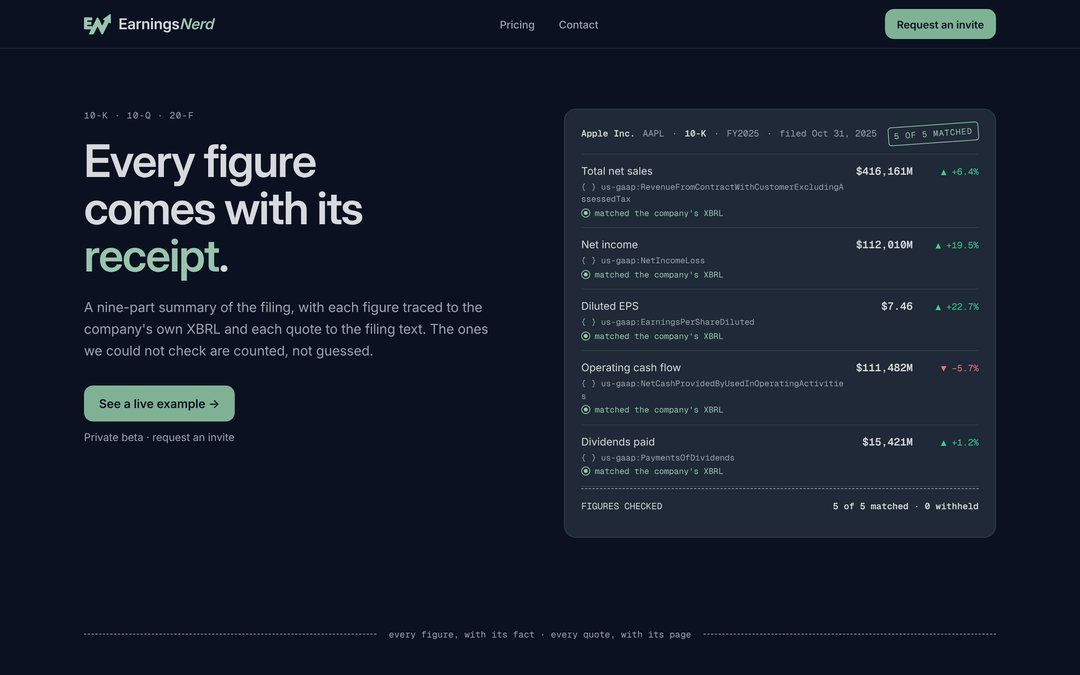
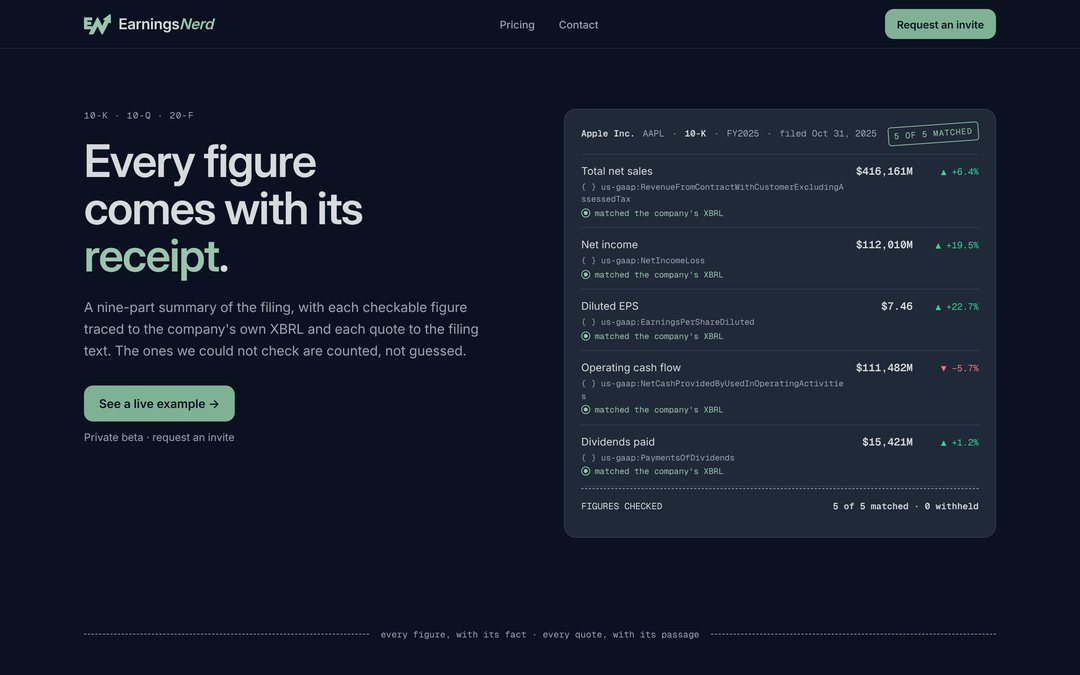
docs(brand): apply the records lens, mark the June roadmap superseded, point todo at the pause
- Mockups and strategy say "passage" not "page" and "each checkable figure"
  where the product itself counts checkable figures; the margin marks in
  direction B are positioned by measuring their inline markers.
- Battlefield counts recomputed from the seven captures; the two sites
  that did not render on the first visit are described neutrally.
- Citation nits (email_service.py:184, layout.tsx:55, SummaryBlocks.tsx:122,
  copilot/FilingWorkspace.tsx) and the FY2024 dividends figure recorded.
- docs/competitive-strategy-roadmap-2026.md: a superseded note on its
  dark-first, mint-accent identity lines (AGENTS.md §2, fix the losing
  document in the same PR).
- tasks/todo.md: one Founder line for the pending direction choice and
  the eight interview questions.

Claude-Session: https://claude.ai/code/session_01YJKqourPFYkH1PR5wGRaef

Changed region(s): [[0.0611, 0.4356, 0.4583, 0.5289], [0.3361, 0.9333, 0.6417, 0.9644]]

diff --git a/docs/brand/directions/direction-b.html b/docs/brand/directions/direction-b.html
@@ -26,17 +26,17 @@
   <div>
     <p class="eyebrow">AI summaries of 10-Ks and 10-Qs</p>
     <h1 class="display">The summary that <span class="mark-hl">shows its work</span>.</h1>
-    <p class="sub">EarningsNerd reads the 10-K and writes it up in nine parts. Every figure points to the XBRL fact or the passage it came from, so checking takes a click, not an afternoon.</p>
+    <p class="sub">EarningsNerd reads the 10-K and writes it up in nine parts. Each figure points to the XBRL fact or the passage it came from, or says that it could not, so checking takes a click, not an afternoon.</p>
     <div class="cta"><a class="btn lg" href="#">See a live example →</a><span class="access">Private beta · request an invite</span></div>
   </div>
   <section class="panel copy" aria-label="Marked copy">
-    <div class="margin"><span class="m" style="top:66px">[F1]</span><span class="m" style="top:90px">[F2]</span><span class="m" style="top:114px">[F3]</span><span class="m" style="top:176px">[1]</span></div>
+    <div class="margin" id="margin"></div>
     <div class="body">
       <p class="ident" style="margin-bottom:14px"><b>Apple Inc.</b><span>AAPL</span><span>·</span><b>10-K</b><span>·</span><span>fiscal year ended Sep 27, 2025</span><span>·</span><span>filed Oct 31, 2025</span></p>
       <div class="sect"><span class="idx">01</span><h2>The Print</h2></div>
       <p class="para">Total net sales rose 6.4% to $416.2B<span class="ref">[F1]</span> and net income 19.5% to $112.0B<span class="ref">[F2]</span>, while operating cash flow declined to $111.5B from $118.3B<span class="ref">[F3]</span>.</p>
       <blockquote class="span">“Tariffs and other measures that are applied to the Company’s products or their components can have a material adverse impact on the Company’s business, results of operations and …”</blockquote>
-      <div class="span-meta"><span class="chip sel">❞ Located in the filing</span><span class="tally">the filing's own words · <span class="bracket">[1]</span></span></div>
+      <div class="span-meta"><span class="chip sel">❞ Located in the filing</span><span class="tally">the filing's own words · <span class="bracket" data-ref="[1]">[1]</span></span></div>
       <div class="catch">
         <div><div class="k">From memory</div><div class="v old">$391.0B</div></div>
         <div><div class="k">In the filing</div><div class="v">$416.2B <span class="ref">[F1]</span></div></div>
@@ -46,4 +46,14 @@
     <p class="foot tally">3 of 3 figures matched the company's XBRL · 1 of 1 excerpt located in the filing text · 0 withheld</p>
   </section>
 </main>
+<script>
+// The margin device: each inline marker gets a twin in the gutter on the line it sits on.
+(function(){
+  const margin=document.getElementById("margin"); const panel=margin.parentElement; const top=panel.getBoundingClientRect().top;
+  document.querySelectorAll(".body .ref, .body [data-ref]").forEach((el)=>{
+    const r=el.getBoundingClientRect(); const m=document.createElement("span"); m.className="m";
+    m.textContent=el.dataset.ref||el.textContent.trim(); m.style.top=(r.top-top+(r.height-14)/2)+"px"; margin.appendChild(m);
+  });
+})();
+</script>
 </body></html>

diff --git a/docs/brand/directions/direction-a.html b/docs/brand/directions/direction-a.html
@@ -25,7 +25,7 @@
   <div>
     <p class="eyebrow">10-K · 10-Q · 20-F</p>
     <h1 class="display">Every figure comes with its <span class="brand">receipt</span>.</h1>
-    <p class="sub">A nine-part summary of the filing, with each figure traced to the company's own XBRL and each quote to the filing text. The ones we could not check are counted, not guessed.</p>
+    <p class="sub">A nine-part summary of the filing, with each checkable figure traced to the company's own XBRL and each quote to the filing text. The ones we could not check are counted, not guessed.</p>
     <div class="cta"><a class="btn lg" href="#">See a live example →</a><span class="access">Private beta · request an invite</span></div>
   </div>
   <div class="receipt-wrap">
@@ -43,5 +43,5 @@
     </section>
   </div>
 </main>
-<footer class="strip"><p class="rule">every figure, with its fact · every quote, with its page</p></footer>
+<footer class="strip"><p class="rule">every figure, with its fact · every quote, with its passage</p></footer>
 </body></html>

diff --git a/docs/brand/directions/direction-c.html b/docs/brand/directions/direction-c.html
@@ -21,7 +21,7 @@
   <div>
     <p class="eyebrow">AI summaries of 10-Ks and 10-Qs</p>
     <h1 class="display">Somebody has to read the <span class="nerd">footnotes</span>.</h1>
-    <p class="sub">The Nerd reads the 10-K so you can check it faster, not skip it. Nine numbered notes per filing, each one pointing at its page.</p>
+    <p class="sub">The Nerd reads the 10-K so you can check it faster, not skip it. Numbered notes per filing, each one pointing at its passage.</p>
     <div class="cta"><a class="btn lg" href="#">See a live example →</a><span class="access">Private beta · request an invite</span></div>
   </div>
   <section class="panel note" aria-label="Notebook page">

diff --git a/docs/brand/00-audit.md b/docs/brand/00-audit.md
@@ -18,20 +18,20 @@ Scores and judgements here are the studio's. File paths are the evidence; code i
 | 2 | Homepage, dark, 1440 | same | [fold](audit/home-dark-1440-fold.jpg) | Navy `#0B1120`, light sage `#7FB295` accents, the same composition. Reads as the light page inverted; nothing is specific to the dark face. |
 | 3 | Homepage, 390 | same | [light fold](audit/home-light-390-fold.jpg) · [dark fold](audit/home-dark-390-fold.jpg) · [light, first 4,200px](audit/home-light-390-full.jpg) | Headline at 36px, four lines. The cookie bar covers the second row of company chips on the first visit. The full page is 12,811px, about fifteen phone screens. |
 | 4 | Pricing `/pricing` | `frontend/app/pricing/page.tsx`, `prices.ts`; `frontend/lib/planLimits.ts` | [capture](audit/pricing-light-1440.jpg) | Secondary header "Pricing · Choose the plan that fits your workflow". Lead "Choose the plan that works for you. Upgrade or downgrade at any time." Yearly toggle on by default: "$32.50 /month · Billed annually". Free: "For trying out EarningsNerd", "Basic AI summaries", CTA "Create free account". Pro: "For professionals who need unlimited access", "Most popular". FAQ in generic SaaS form. |
-| 5 | Example filing `/filing/3` | `frontend/app/filing/[id]/page.tsx`, `page-client.tsx`, `StreamingSummaryDisplay.tsx`; `frontend/features/filings/components/FilingIdentity.tsx`, `SourceTrace.tsx`, `FilingWorkspace.tsx`; `frontend/features/summaries/components/SummaryRisks.tsx`, `FinancialMetricsTable.tsx`; section titles in `backend/app/services/summary_schema.py:71-79` | [light](audit/filing-3-light-1440-fold.jpg) · [dark](audit/filing-3-dark-1440-fold.jpg) · [390](audit/filing-3-light-390-fold.jpg) | The identity strip: "Apple Inc. AAPL · 10-K · fiscal year ended Sep 27, 2025 · filed Oct 31, 2025 · Original on SEC EDGAR", then the tally "3 of 5 checkable figures matched the company's XBRL · 4 of 4 risk excerpts located in the filing text". A numbered contents rail (01 The Print, 02 Results That Matter, 03 What changed, 04 Earnings Quality & Cash Conversion, 05 Value Drivers & Capital Allocation, 06 Forward Signals, 07 Risks, 08 Balance Sheet & Liquidity, 09 Notable Footnotes). A metrics table whose rows carry `{ } Revenue · SEC XBRL` chips and "Verified in filing". A floating "Source ⌘K" launcher. This page has more character than the page that sells it. |
+| 5 | Example filing `/filing/3` | `frontend/app/filing/[id]/page.tsx`, `page-client.tsx`, `StreamingSummaryDisplay.tsx`; `frontend/features/filings/components/FilingIdentity.tsx`, `SourceTrace.tsx`, `copilot/FilingWorkspace.tsx`; `frontend/features/summaries/components/SummaryRisks.tsx`, `FinancialMetricsTable.tsx`, `SummaryBlocks.tsx` ("What changed", `:122`); the other section titles in `backend/app/services/summary_schema.py:71-79` | [light](audit/filing-3-light-1440-fold.jpg) · [dark](audit/filing-3-dark-1440-fold.jpg) · [390](audit/filing-3-light-390-fold.jpg) | The identity strip: "Apple Inc. AAPL · 10-K · fiscal year ended Sep 27, 2025 · filed Oct 31, 2025 · Original on SEC EDGAR", then the tally "3 of 5 checkable figures matched the company's XBRL · 4 of 4 risk excerpts located in the filing text". A numbered contents rail (01 The Print, 02 Results That Matter, 03 What changed, 04 Earnings Quality & Cash Conversion, 05 Value Drivers & Capital Allocation, 06 Forward Signals, 07 Risks, 08 Balance Sheet & Liquidity, 09 Notable Footnotes). A metrics table whose rows carry `{ } Revenue · SEC XBRL` chips and "Verified in filing". A floating "Source ⌘K" launcher. This page has more character than the page that sells it. |
 | 6 | Company `/company/AAPL` | `frontend/app/company/[ticker]/page-client.tsx`; `frontend/features/companies/components/CompanyIdentity.tsx`; `frontend/features/filings/components/FilingIndex.tsx`, `ComparePeriodsCard.tsx` | [capture](audit/company-aapl-light-1440.jpg) | "Apple Inc. AAPL", then "$336.64 −1.11% · CIK 0000320193 · Company on SEC EDGAR" and "Latest filing 10-Q · quarter ended Jun 27, 2026 · filed Jul 31, 2026 · summary ready". One primary action "Open latest summary". A filings index grouped by year. A "Compare periods" card (▲ +6.4% Favorable). |
 | 7 | 404 | `frontend/app/not-found.tsx` | [light](audit/404-light-1440.jpg) · [dark](audit/404-dark-1440.jpg) | A centred card: magnifier glyph, "Page not found", "We couldn't find this page. The link may be mistyped or out of date. Search for a company from the homepage, or open your dashboard.", two buttons. Correct, anonymous. |
 | 8 | Auth shell `/login`, `/register` | `frontend/features/auth/components/AuthShell.tsx`; `frontend/app/login/page.tsx`, `register/page.tsx` | [light](audit/login-light-1440.jpg) · [dark](audit/login-dark-1440.jpg) | Left: "Welcome back · Sign in to continue to EarningsNerd." Right, on a pale sage pane: "Explore SEC filings with cited summaries." and "Business overview, financials, risks, and outlook, with source links and warnings for review.", then a glass card "Example · AAPL · FY2023 · 10-K" with three grey placeholder bars where text would be and "Revenue $383.3B" beside a loss chip "−2.8% YoY"; trust icons "SEC EDGAR", "Filing-sourced figures". |
 | 9 | Waitlist `/waitlist` | `frontend/app/waitlist/page.tsx`; `frontend/features/waitlist/components/WaitlistForm.tsx`, `WaitlistCounter.tsx`, `WaitlistExample.tsx`, `WaitlistStatus.tsx` | [capture](audit/waitlist-light-1440.jpg) | A second homepage in a second voice: "Read a 10-K in 5 minutes, not 5 hours.", "Built for investors who want the signal without the slog.", a counter chip reading "Join 0+ others on the waitlist", three problem cards ("Speed matters. Markets move fast. You need clarity before the next earnings call."), a four-step "How it works" ending in "Act with clarity … move faster", a feature grid, and a "Built for trust and transparency" band with "Security-first approach". The share text still says "AI-powered SEC filing summaries for retail investors" (`WaitlistForm.tsx:23-24`). Reachable today although `WAITLIST_MODE` is off. |
-| 10 | Social card (OG) | `frontend/scripts/brand/og-template.html` → `frontend/public/og-image.png`; `?v=3` at `frontend/app/layout.tsx:54,66` and `frontend/app/page.tsx:44,55` | [capture](audit/og-image-v3.jpg) | Lockup, then "Explore SEC filings with source context." in Inter 700 at 88px, and "AI summaries · 10-K & 10-Q · Sourced from SEC EDGAR" in the retired grey `#6B7280`. No figure, no device, no promise. |
+| 10 | Social card (OG) | `frontend/scripts/brand/og-template.html` → `frontend/public/og-image.png`; `?v=3` at `frontend/app/layout.tsx:55,66` and `frontend/app/page.tsx:44,55` | [capture](audit/og-image-v3.jpg) | Lockup, then "Explore SEC filings with source context." in Inter 700 at 88px, and "AI summaries · 10-K & 10-Q · Sourced from SEC EDGAR" in the retired grey `#6B7280`. No figure, no device, no promise. |
 | 11 | Favicon, app icon, PWA icons | `frontend/public/assets/earningsnerd-appicon.svg`, `favicon.ico` (16/32/48), `apple-touch-icon.png`, `icons/icon-{192,512}.png` (+ maskable), `frontend/app/manifest.ts`, `frontend/scripts/generate-brand-assets.mjs` | [icon board](audit/icon-board.png) | The sage squircle with the cream EN. At 16px the E and the rising N fuse into one blob; at 24px the N reads and the arrowhead does not; the bare mark is legible from 32px. The board's lower rows show the bare mark on cream, navy and in one-colour black. |
 | 12 | Marks and lockups | `frontend/public/assets/earningsnerd-logo-{light,dark}.svg`, `earningsnerd-icon-{light,dark}.svg`, `earningsnerd-mark-{sage,navy,white,mono}.svg`; `frontend/components/EarningsNerdLogo.tsx`, `EarningsNerdLogoIcon.tsx`; `frontend/public/assets/LOGO_README.md` | see 1, 10, 11 | E + N with the N's last stroke rising into an arrow; the wordmark "Earnings" in the surface's ink and italic "Nerd" in sage. The SVG wordmark is Inter 700 at −0.8 tracking; the app wordmark is the heading face at 600. No clear-space or minimum-size rule exists yet. |
 | 13 | Header | `frontend/components/Header.tsx` | see 1 | Mark + wordmark, "Multi-period analysis · Calendar · Pricing · Contact", theme toggle, "Log in", primary "Request an invite →" (from `ACCESS_COPY.invite`). |
 | 14 | Footer | `frontend/components/Footer.tsx` | see 1 (full page) | Icon-only mark, tagline "Explore SEC filings with AI-assisted summaries.", three link columns, "Data sourced from SEC EDGAR. AI-generated content, for informational purposes only. Not investment advice. Not affiliated with the SEC.", a Logo.dev credit. |
-| 15 | Email subjects and shell | `backend/app/services/email_service.py` | none (code) | Subjects: "You're on the EarningsNerd waitlist! 🎉" (`:151`), "You just moved up the EarningsNerd waitlist!" (`:170`), "Verify your EarningsNerd email" (`:197`), "Your EarningsNerd beta invite" (`:226`), "Reset your EarningsNerd password" (`:253`), "A {provider} sign-in was linked to your EarningsNerd account" (`:282`), "Someone tried to sign up with your EarningsNerd email" (`:312`), "{TICKER} reports earnings today" / "{n} companies you follow report earnings today" (`:578-580`), "{count} new filing(s) from your watchlist" (`:648`). The shell (`_wrap_html`, `:20-47`) is a cream table, a panel card, a text-only "Earnings*Nerd*" wordmark and a `#6B7280` footer. The verification body says "unlock AI-powered SEC filing summaries" (`:199`); "unlock" is on the voice guide's blacklist. |
+| 15 | Email subjects and shell | `backend/app/services/email_service.py` | none (code) | Subjects: "You're on the EarningsNerd waitlist! 🎉" (`:151`), "You just moved up the EarningsNerd waitlist!" (`:170`), "Verify your EarningsNerd email" (`:197`), "Your EarningsNerd beta invite" (`:226`), "Reset your EarningsNerd password" (`:253`), "A {provider} sign-in was linked to your EarningsNerd account" (`:282`), "Someone tried to sign up with your EarningsNerd email" (`:312`), "{TICKER} reports earnings today" / "{n} companies you follow report earnings today" (`:578-580`), "{count} new filing(s) from your watchlist" (`:648`). The shell (`_wrap_html`, `:20-47`) is a cream table, a panel card, a text-only "Earnings*Nerd*" wordmark and a `#6B7280` footer. The verification body says "unlock AI-powered SEC filing summaries" (`:184`); "unlock" is on the voice guide's blacklist. |
 | 16 | Loading quips | `frontend/app/filing/[id]/StreamingSummaryDisplay.tsx:36-43`, attribution `:301` | none (code) | "Scanning 400 pages of footnotes so you don't have to…", "Cross-referencing the numbers with the narrative…", "Translating corporate-speak into plain English…", "Reading the size-8 fine print…", "Reviewing the obscure 'Other' section…", "Decoding the tone of the outlook…", signed "EarningsNerd analyst"; the stalled line "Taking longer than usual. This looks like a complex filing; still working on it." The only place on the site where a person seems to be at work. |
 | 17 | Exports (PDF, CSV, Excel) | `backend/app/services/pdf_branding.py` (masthead: inline mark, wordmark, document kind; `PALETTE` keeps `ink_tertiary #6B7280`), `export_service.py:40,117` ("Generated by EarningsNerd — AI-Powered SEC Filing Analysis", with an em-dash and the title-case the voice guide retired), `excel_export_service.py:48` (embeds `backend/app/assets/brand/earningsnerd-mark.png`) | none (code) | The package the product ships in. Chrome is on-token; the masthead sentence is pre-voice-pass. |
-| 18 | The product's own vocabulary | `backend/app/services/summary_schema.py:71-79`; `FilingIdentity.tsx` (tally); `SourceTrace.tsx` ("Verified in filing", "Cited", "Verified against the original SEC filing", "Cited. Open the section to confirm."); `HeroExample.tsx` ("Located in the filing"); `SummaryRisks.tsx` ("N of M excerpts located in the filing text · N withheld because the evidence could not be matched"); `FilingWorkspace.tsx` (the "Source" pane, tabs Filing · Ask) | see 5 | "The Print", "Results That Matter", "What changed", "Forward Signals", "Notable Footnotes"; "withheld"; "located"; "checkable". This is the real brand voice, and it appears on no sales surface. |
+| 18 | The product's own vocabulary | `backend/app/services/summary_schema.py:71-79`; `FilingIdentity.tsx` (tally); `SourceTrace.tsx` ("Verified in filing", "Cited", "Verified against the original SEC filing", "Cited. Open the section to confirm."); `HeroExample.tsx` ("Located in the filing"); `SummaryRisks.tsx` ("N of M excerpts located in the filing text · N withheld because the evidence could not be matched"); `copilot/FilingWorkspace.tsx` (the "Source" pane, tabs Filing · Ask) | see 5 | "The Print", "Results That Matter", "What changed", "Forward Signals", "Notable Footnotes"; "withheld"; "located"; "checkable". This is the real brand voice, and it appears on no sales surface. |
 | 19 | State microcopy | `frontend/features/summaries/components/GenerateSignupGate.tsx:45`; `StreamingSummaryDisplay.tsx:389,406,409`; `frontend/features/subscriptions/components/UpgradeModal.tsx:30-35`; `frontend/features/dashboard/components/YourCompanies.tsx:103`; `frontend/app/dashboard/watchlist/page.tsx:143`; `frontend/app/company/[ticker]/page-client.tsx:251,278` | none (code) | "Create a free account to analyze this filing"; "You've hit this month's free limit"; "Generation interrupted" / "Generation timed out. Please retry to continue."; "Upgrade to Pro" / "Pro includes unlimited summaries, hourly filing alerts, 8-K alerts, Multi-Period Analysis, and exports."; "No companies yet"; "No watchlist companies yet"; "Invalid ticker"; "Company not found". Truthful, and interchangeable with any SaaS. |
 | 20 | Cookie consent | `frontend/components/CookieConsent.tsx` | see 1, 4, 5 | "We value your privacy · We use cookies to enhance your experience and analyze site usage. You can choose which cookies to accept." The same opening line as Koyfin's and BamSEC's bars, captured the same morning (see [02-battlefield.md](02-battlefield.md)). |
 
@@ -95,18 +95,18 @@ a stranger sees first.
   2026-10-11 (accession 0000320193-25-000079; CIK 320193): `RevenueFromContractWithCustomerExcludingAssessedTax`
   FY2025 416,161,000,000 vs FY2024 391,035,000,000; `NetIncomeLoss` 112,010,000,000 vs
   93,736,000,000; `EarningsPerShareDiluted` 7.46 vs 6.08; `NetCashProvidedByUsedInOperatingActivities`
-  111,482,000,000 vs 118,254,000,000; `PaymentsOfDividends` 15,421,000,000. These are the only sample
+  111,482,000,000 vs 118,254,000,000; `PaymentsOfDividends` 15,421,000,000 vs 15,234,000,000. These are the only sample
   figures the brand work may draw, until a refreshed snapshot is captured through the product.
 - Prices are `PRICE_VARIANTS.control` $39 / $390 (`frontend/app/pricing/prices.ts`), with a $29 arm
-  behind the `pricing-experiment` flag. The brief's "$20 a month or $200 a year" is not in the code
-  and is therefore not a brand fact; it is a founder question ([01-interview.md](01-interview.md)).
+  behind the `pricing-experiment` flag. The studio brief names a different figure; it is not in the
+  code and is therefore not a brand fact; it is a founder question ([01-interview.md](01-interview.md)).
 - Access is invite-only (`ACCESS_COPY.invite`); Free is 5 summaries a month, 3 Ask questions, 3
   earnings-day alerts, 90-day history (`frontend/lib/planLimits.ts`, mirrored from
   `backend/app/services/entitlements.py`).
 - The summary schema's nine section titles are those at `backend/app/services/summary_schema.py:71-79`;
-  "Segments" (`:77`) is in the schema but not in the live Apple page's rail, which shows nine
-  sections without it, so the sales page must take its list from the schema with the renderer's
-  rule, not from a screenshot.
+  "Segments" (`:77`) is in the schema but not in the live Apple page's rail, and "What changed" is
+  added by the renderer (`SummaryBlocks.tsx:122`), so the rail varies by filing and the sales page
+  must take its list from the schema with the renderer's rule, not from a screenshot.
 - The hero headline is a PostHog experiment (`landing-headline-experiment`, variants A, B, C); A is
   in the HTML. Brand copy changes to the headline replace or extend the variants; they do not
   bypass the experiment.

diff --git a/docs/brand/02-battlefield.md b/docs/brand/02-battlefield.md
@@ -1,17 +1,17 @@
 # The battlefield (2026-10-11)
 
-Phase 2 of the brand studio brief. Eight competitor homepages were captured the same morning as the
-audit, with Playwright 1.56.1 and the preinstalled Chromium at 1440×900, and probed for computed
+Phase 2 of the brand studio brief. Eight competitor homepages were visited the same morning as the
+audit and seven were captured, with Playwright 1.56.1 and the preinstalled Chromium at 1440×900, and probed for computed
 styles (h1 face, size, weight, colour; page ground; the buttons in the first viewport). Captures are
 downscaled JPEGs under [`battlefield/`](battlefield/), kept small and used only for comparison. The
 feature tables in `tasks/research/competitors.md` (June 2026) and `docs/RESEARCH_SYNTHESIS.md`
 cover what these products do; this page covers how they look and speak.
 
-Two sites fought the capture. Fiscal.ai answered the first visit with a Vercel security checkpoint
-(HTTP 429); a second visit under a Safari identity rendered the page, and the capture is from that
-visit. Simply Wall St held every visit at a Cloudflare challenge ("Just a moment…"), including a
-20-second wait and a second route; it is described from the repository's research and from the
-brief, not from a capture, and is marked so.
+Two sites did not render on the first visit. Fiscal.ai answered it with HTTP 429 from a security
+checkpoint; a second visit rendered the page, and the capture is from that visit. Simply Wall St
+showed a bot challenge ("Just a moment…") on both visits; it is described from the repository's
+research and from the brief, not from a capture, and is marked so. It should be captured by hand
+in a normal browser before Phase 9's lineup.
 
 ## 1. The eight
 
@@ -30,7 +30,8 @@ brief, not from a capture, and is marked so.
 - **Primary CTA.** "Request Demo" (secondary "View plans"); the nav leads with "Contact Sales".
 - **Who it is for.** Institutions and platforms; the retail reader who made FinChat is no longer the
   subject of the page. The product still carries click-through citations and the "says I don't
-  know" reputation (`tasks/research/competitors.md` §A).
+  know" reputation (`tasks/research/competitors.md` §A). "AI" appears in the page title, not in
+  the first viewport.
 
 ### Quartr
 
@@ -78,12 +79,12 @@ brief, not from a capture, and is marked so.
 
 ### Simply Wall St (not captured)
 
-Both visits ended at a Cloudflare challenge. From `docs/RESEARCH_SYNTHESIS.md` (the closest
+Both visits ended at a bot challenge. From `docs/RESEARCH_SYNTHESIS.md` (the closest
 freemium analogue: unlimited watchlists, metered reports) and the brief: warm cream ground, a gold
 serif italic accent, a mascot illustration, the Snowflake radar as the signature device,
 portfolio-first. It is the one competitor with a graphic device the market recognises without the
 logo, and the one whose palette family (cream and a warm accent) sits nearest to EarningsNerd's.
-The capture should be retried from a residential connection before Phase 9's lineup.
+It should be captured by hand in a normal browser before Phase 9's lineup.
 
 ### Stock Analysis
 
@@ -147,13 +148,14 @@ The capture should be retried from a residential connection before Phase 9's lin
 
 What the eight share:
 
-- **Breadth, speed and AI.** Six of eight say "AI" in the first viewport; five count something
-  large (130,000 stocks, 500,000 investors, 700 institutions, 30 years, "everything"). Every one
-  claims speed ("in minutes", "real-time", "quickly", "faster").
+- **Breadth, speed and AI.** Of the seven captured first viewports, three say "AI" (Quartr, Koyfin,
+  Public) and Fiscal.ai says it in its page title; two count something large (TIKR's 500,000
+  investors, Stock Analysis's 130,000+ stocks) and Quartr's "700+" sits in its meta description;
+  four claim speed ("updated in minutes", "real-time", "quickly analyze", "save time").
 - **One register: the platform.** "Infrastructure", "platform", "terminal", "all-in-one", "one
   place". The reader is a user of a system. Nobody speaks as a colleague who has read the document.
-- **One composition.** Headline, one-sentence subhead, a button, a product screenshot. Seven of
-  eight. EarningsNerd is the eighth of eight.
+- **One composition.** Headline, one-sentence subhead, a button, a product screenshot. Six of the
+  seven captured (Stock Analysis leads with a search field instead). EarningsNerd matches it too.
 - **Red and green do the talking.** Koyfin's, Stock Analysis's and Public's first viewports all show
   price direction in red and green. TIKR's hero screenshot too. The casino floor is the default
   wallpaper of the category.

diff --git a/docs/brand/decisions-log.md b/docs/brand/decisions-log.md
@@ -9,12 +9,13 @@ what waits on the founder. Later phases append; nothing is rewritten.
 | D-002 | 2026-10-11 | 0 | Keep captures in the repository as downscaled JPEGs under `docs/brand/audit/` and `docs/brand/battlefield/` (about 1.6 MB total); originals stay in the session scratchpad. | Committing full-resolution PNGs (about 40 MB). | done |
 | D-003 | 2026-10-11 | 0 | Score the sameness test 0 to 3 per tell, fourteen tells, so Phase 9 can rerun it and show the delta. | A pass/fail list: hides partial progress. | done; score 36/42 |
 | D-004 | 2026-10-11 | 0 | Re-verify the sample figures against SEC companyfacts before any mockup uses them; only the four FY2025 and FY2024 Apple figures (and dividends) listed in the audit §4 may appear in brand work until a product snapshot replaces them. | Reusing the FY2022 `landing-samples.ts` figures: verified, but they are the drift the audit records. | done |
-| D-005 | 2026-10-11 | 1 | Treat the code's $39 / $390 as the price fact; the brief's $20 / $200 goes to the founder as a question; no price copy is authored by the brand work. | Writing $20 into mockups: would ship an unverified claim. | waits on founder (Q7) |
+| D-005 | 2026-10-11 | 1 | Treat the code's $39 / $390 as the price fact; the brief's different figure goes to the founder as a question; no price copy is authored by the brand work. | Writing the brief's figure into mockups: would ship an unverified claim. | waits on founder (Q7) |
 | D-006 | 2026-10-11 | 1 | Work under assumptions A1 to A9 ([01-interview.md](01-interview.md) §3) until the founder answers; label every use. | Blocking on the answers: the brief says continue. | in force |
-| D-007 | 2026-10-11 | 2 | Describe Simply Wall St from the repository's research after two blocked captures, and say so; retry from a residential connection before Phase 9. | Omitting it: it is the nearest palette neighbour and the one competitor with a device. | partial |
-| D-008 | 2026-10-11 | 2 | Keep Fiscal.ai's second-visit capture (the first visit met a Vercel checkpoint) and record both outcomes. | Treating the 429 as "blocked": the page did render. | done |
+| D-007 | 2026-10-11 | 2 | Describe Simply Wall St from the repository's research after two blocked captures, and say so; capture it by hand in a normal browser before Phase 9. | Omitting it: it is the nearest palette neighbour and the one competitor with a device. | partial |
+| D-008 | 2026-10-11 | 2 | Keep Fiscal.ai's second-visit capture (the first visit returned HTTP 429) and record both outcomes. | Treating the 429 as "blocked": the page did render. | done |
 | D-009 | 2026-10-11 | 3 | The brand owns the act of checking (the receipt), not "citations" as a feature, because the feature is table stakes and the act is unclaimed ([02-battlefield.md](02-battlefield.md) §3). | Owning "what changed": real, shipped, and the council's JTBD, but it is a feature the Change Report already labels, and the battlefield shows diffing is where BamSEC and the institutional tools compete. | done |
 | D-010 | 2026-10-11 | 4 | Show the three directions as rendered hero mockups in both themes at 1440 and 390, built from the real tokens and the verified figures, so the founder chooses between pictures, not paragraphs. | Mood boards or sketches: the brief forbids stopping there. | done |
 | D-011 | 2026-10-11 | 4 | Recommend the Marked Copy (direction B); pause for the founder's choice before Phase 5. | Proceeding under an assumed choice: the brief names this as a founder pause, and Phases 5 to 8 would be thrown away if the choice differs. | waits on founder |
 | D-012 | 2026-10-11 | 4 | Show the "catch" with two real figures from two fiscal years ("From memory $391.0B · In the filing $416.2B") rather than a fabricated wrong number. | Inventing a chatbot's wrong answer: unverifiable, and A4 forbids naming. | done |
 | D-013 | 2026-10-11 | 4 | Commit the mockup sources (`directions/*.html`, `mockup.css`) beside the renders, with the fonts referenced relatively from the repository, so a direction can be re-rendered or edited without the session. | Renders only: the founder could not change a word. | done |
+| D-014 | 2026-10-11 | 0 to 4 | Apply the records lens: "passage" not "page" in the mockups; "each checkable figure" and "where it can be" instead of absolutes (S5); battlefield counts recomputed from the seven captures; the margin marks positioned by measurement; the June roadmap marked superseded in this PR (AGENTS.md §2); a founder pointer in `tasks/todo.md`; the brief's unreleased price figure removed from the public files. | Leaving the absolutes: the product itself says "checkable figures". | done |

diff --git a/docs/brand/04-directions.md b/docs/brand/04-directions.md
@@ -39,7 +39,8 @@ building the checker, and the device is typographic, so it survives any UI fashi
 - **Mood.** A desk, a pencil, a good footnote. Paper and ink, one green highlighter, nothing
   decorative.
 - **Signature element.** The margin: a hairline gutter with bracketed citation marks (`[F1]`, `[1]`)
-  aligned to the lines they belong to, and the sage mark, a highlight bar under a phrase or beside a
+  positioned to the lines they belong to (the mockup measures each inline marker and places its
+  margin twin on that line), and the sage mark, a highlight bar under a phrase or beside a
   passage, which is the monogram's rising stroke laid flat. On the hero it underlines "shows its
   work"; on a surface it marks the located span.
 - **Risk.** Executed literally it turns skeuomorphic (yellow highlighter, paper grain); the margin
@@ -60,7 +61,8 @@ and on paper (a margin).
   not just a wordmark (S3 colleague, A1).
 - **Mood.** A ruled page, numbered entries, a dry aside in the margin ("worth a look"), a
   signature line.
-- **Signature element.** The numbered note (01, 02 … in the data face on a ruled page) and the
+- **Signature element.** The numbered note (01, 02 … in the data face on a ruled page, as the
+  summary's section rail already numbers itself) and the
   italic aside, which would be the one added type role: the Nerd's own voice in Inter italic,
   distinct from the filing's serif and the summary's upright sans.
 - **Risk.** A character on a trust product is a risk to S3's colleague-not-oracle line the moment
@@ -68,7 +70,7 @@ and on paper (a margin).
   Source Voice Rule forbids it; a notebook is a metaphor, and metaphors age faster than devices.
 
 Why it still works in five years: a voice is the hardest thing to copy and the easiest to keep,
-and the numbered note is already how the summary is built (the 01 to 09 rail); but the identity
+and the numbered note is already how the summary is built (the numbered section rail); but the identity
 lives in the writing, so it depends on the founder keeping the voice, not on the system.
 
 ## Comparison
@@ -76,7 +78,7 @@ lives in the writing, so it depends on the founder keeping the voice, not on the
 | | A. The Receipt | B. The Marked Copy | C. The Nerd's Notebook |
 |---|---|---|---|
 | Ownable without the logo | the tally rule and stamp | the margin and the mark | the numbered note and the aside |
-| What the product already proves | the tally sentences | the span highlight, chips, `[F1]` markers, the Source pane | the 01 to 09 section rail, the quips |
+| What the product already proves | the tally sentences | the span highlight, chips, `[F1]` markers, the Source pane | the numbered section rail, the quips |
 | Recognisable at 16px | a dashed rule: weak | a bracket: yes | a numeral: weak |
 | In grayscale and on paper | yes | yes | yes |
 | On a phone at 390 | five mono rows crowd the fold | the margin collapses to 36px and holds | the ruled page holds |
@@ -112,6 +114,10 @@ asks the other questions in the same message). "B" is enough of an answer; "B wi
   each mockup, checked by the audit, and are not the product's own count for filing 3 ("3 of 5
   checkable figures"), which the product computes over a different set.
 - The excerpt in B is the risk passage the live hero example located in the filing text, cut where
-  the product cuts it.
+  the product cuts it. "Nine parts" repeats the live hero's own claim (`LandingHero.tsx`); the
+  rendered section rail varies by filing ("Segments" and "What changed" are conditional), which
+  Phase 7 must keep in mind when it writes a count.
+- The mockups say "passage", never "page": the product cites a section and highlights a passage;
+  it does not compute page numbers.
 - Rendered with Playwright 1.56.1 and the preinstalled Chromium at device scale 2; Inter and Geist
   Mono from the repository's committed font files, Newsreader from Google Fonts at render time.

diff --git a/docs/brand/01-interview.md b/docs/brand/01-interview.md
@@ -13,7 +13,7 @@ where they are.
 
 | Question | Answer | Where it is written |
 |---|---|---|
-| What is the product? | AI summaries of 10-Ks, 10-Qs and 20-Fs in which every figure is traceable to the filing's own XBRL fact or text, generated once per filing and shared. | `backend/app/services/summary_pipeline.py` (one orchestrator, CLAUDE.md rule 1); CLAUDE.md rule 2 (filing-only); `frontend/features/marketing/components/PricingSection.tsx` ("generated once per filing and shared") |
+| What is the product? | AI summaries of 10-Ks, 10-Qs and 20-Fs in which each figure is traced to the filing's own XBRL fact or text where it can be, and the ones that cannot be are counted rather than guessed; generated once per filing and shared. | `backend/app/services/summary_pipeline.py` (one orchestrator, CLAUDE.md rule 1); CLAUDE.md rule 2 (filing-only); `frontend/features/marketing/components/PricingSection.tsx` ("generated once per filing and shared") |
 | What job does it do? | "Read this filing for me, tell me what changed since last quarter, and show me exactly where it says so." | `tasks/council-prep.md`, verdict log #1 (run #1, 2026-06-28) |
 | Who is it for? | The serious individual investor who already reads 10-Ks and wants the tedium removed, not the reading replaced. Secondary: prosumers and analysts who need defensible, citable facts. Not retail who never open a filing; not traders looking for a sentiment score. | `tasks/council-prep.md`, verdict #1 ("retail unanimously rejected"); the brief §0 |
 | What is the one honest positioning? | Accountability: "ChatGPT sells confidence; you sell verifiable, source-traced accuracy." | `tasks/council-prep.md`, verdict #2 (chairman) |
@@ -43,8 +43,8 @@ One message, eight questions. The first six are the brief's; the last two surfac
    Recommended: cream light. The filing is a paper document; the OG card, the emails and the PDF
    are already light; the product's default is light. Dark stays a full peer for the reading
    session, with the same one accent, and the identity must work in both. The June document's
-   "dark-first, mint accent" line is superseded and will be corrected in the same PR that lands
-   the system.
+   "dark-first, mint accent" lines are superseded; this PR marks them so in
+   `docs/competitive-strategy-roadmap-2026.md` (AGENTS.md §2).
 
 3. **Is the EN monogram protected, or on the table if a direction proves it must change?**
    Recommended: the letters are protected; the execution is not. Keep E + N and the rising stroke's
@@ -75,11 +75,12 @@ One message, eight questions. The first six are the brief's; the last two surfac
    primary action stays "See a live example" (decision B). When access opens, the same page sells
    without rewriting, because the qualification is the pitch.
 
-7. **Which price is true?** The brief says Pro is $20 a month or $200 a year; the code shows $39 /
-   $390 with a $29 arm behind a flag, and `/pricing` shows "$32.50 /month" on the yearly default.
+7. **Which price is true?** The studio brief names a lower monthly and annual figure than the
+   code, which shows $39 / $390 with a $29 arm behind a flag, and `/pricing` shows "$32.50 /month"
+   on the yearly default.
    Recommended: the code is the brand fact until the founder changes it; the brand work will not
    touch a price, and any pricing copy it writes will read the price from `prices.ts` as the
-   landing section already does. If $20 / $200 is a planned change, it is its own PR.
+   landing section already does. If the brief's figure is a planned change, it is its own PR.
 
 8. **"Notable filings": curate, retitle or omit?** The audit found Delta Air Lines beside seven
    microcap 8-Ks under "High-signal SEC filings … across the whole market."

diff --git a/tasks/todo.md b/tasks/todo.md
@@ -18,6 +18,7 @@ deleting its line in the PR that closes it; a handover is a refresh of "Where th
 ## Open items
 
 Founder:
+- [ ] Brand studio (PR for `docs/brand/`, phases 0 to 4): choose a direction for the identity (recommended: B, the Marked Copy; `docs/brand/04-directions.md`) and answer the eight questions in `docs/brand/01-interview.md` §2; phases 5 to 10 (mark, system, voice, applications, stress test, handoff) wait on that word.
 - [ ] The dead OUTPUT REFERENCE prompt branch Wave 0 found (`prompt_loader.py:50-54`'s markers never match, so each prompt loads whole): reviving or deleting it changes prompt bytes, a RUNBOOK event that is yours (ledger, "2026-10-09 — Hot-module refactor").
 - [ ] Optional; recommended now (record 20): relay record 16's custody step A (five metadata fields) once — the text is in `DECISIONS-20.md`'s appendix — and, if you agree, tell the chief in your own words "If the answer is outcome B, I adopt record 16's form (b) for R1" (`code-red-20261004/runtime/control/DECISIONS-16.md`).
 - [ ] Optional; recommended (record 20): set the repository's squash default to "Pull request title and description" (Settings → General → Pull Requests → "Allow squash merging" → "Default commit message"), so a squash merge without an explicit message carries the reviewed PR text; the chief's attempt was refused by the auto-mode classifier (`DECISIONS-18.md`, chief defect 7; `DECISIONS-20.md`).

diff --git a/docs/competitive-strategy-roadmap-2026.md b/docs/competitive-strategy-roadmap-2026.md
@@ -1,5 +1,12 @@
 # EarningsNerd — Competitive Strategy & Product Roadmap (2026)
 
+> **Superseded in part (2026-10-11):** the identity directives here ("dark-first", the mint `#10B981`
+> accent, D1 and the "calm, editorial, dark-first UI" row of the thesis table) were replaced by the July
+> 2026 rebrand: a cream-first light theme, one sage accent in both themes and a navy dark theme. `DESIGN.md`
+> and `frontend/DESIGN_SYSTEM.md` are current; the brand studio records under `docs/brand/` carry the
+> decision ([01-interview.md](brand/01-interview.md), question 2). The product and competitive analysis
+> below is unchanged history.
+>
 > **Author's note:** This is a strategic synthesis document, not an implementation spec. It maps
 > EarningsNerd's *actual* code-level capabilities against a forensic teardown of two adjacent
 > platforms — **Stocktwits** (social/sentiment) and **Fiscal AI** (AI financial-data synthesis) —

diff --git a/docs/brand/03-strategy.md b/docs/brand/03-strategy.md
@@ -9,9 +9,9 @@ and assumptions ([01-interview.md](01-interview.md)) and the battlefield
 ## S1. Positioning
 
 **For the individual investor who still reads the filing, EarningsNerd is the summary that shows its
-receipts: every figure traced to the filing's own XBRL or text, and a plain count of what could not
-be, unlike the copilots and terminals that sell confidence, because a number you can check is worth
-more than a number you have to trust.**
+receipts: each figure traced to the filing's own XBRL or text where it can be, and a plain count of
+where it could not, unlike the copilots and terminals that sell confidence, because a number you can
+check is worth more than a number you have to trust.**
 
 ## S2. Three values, as behaviours the product already performs
 
